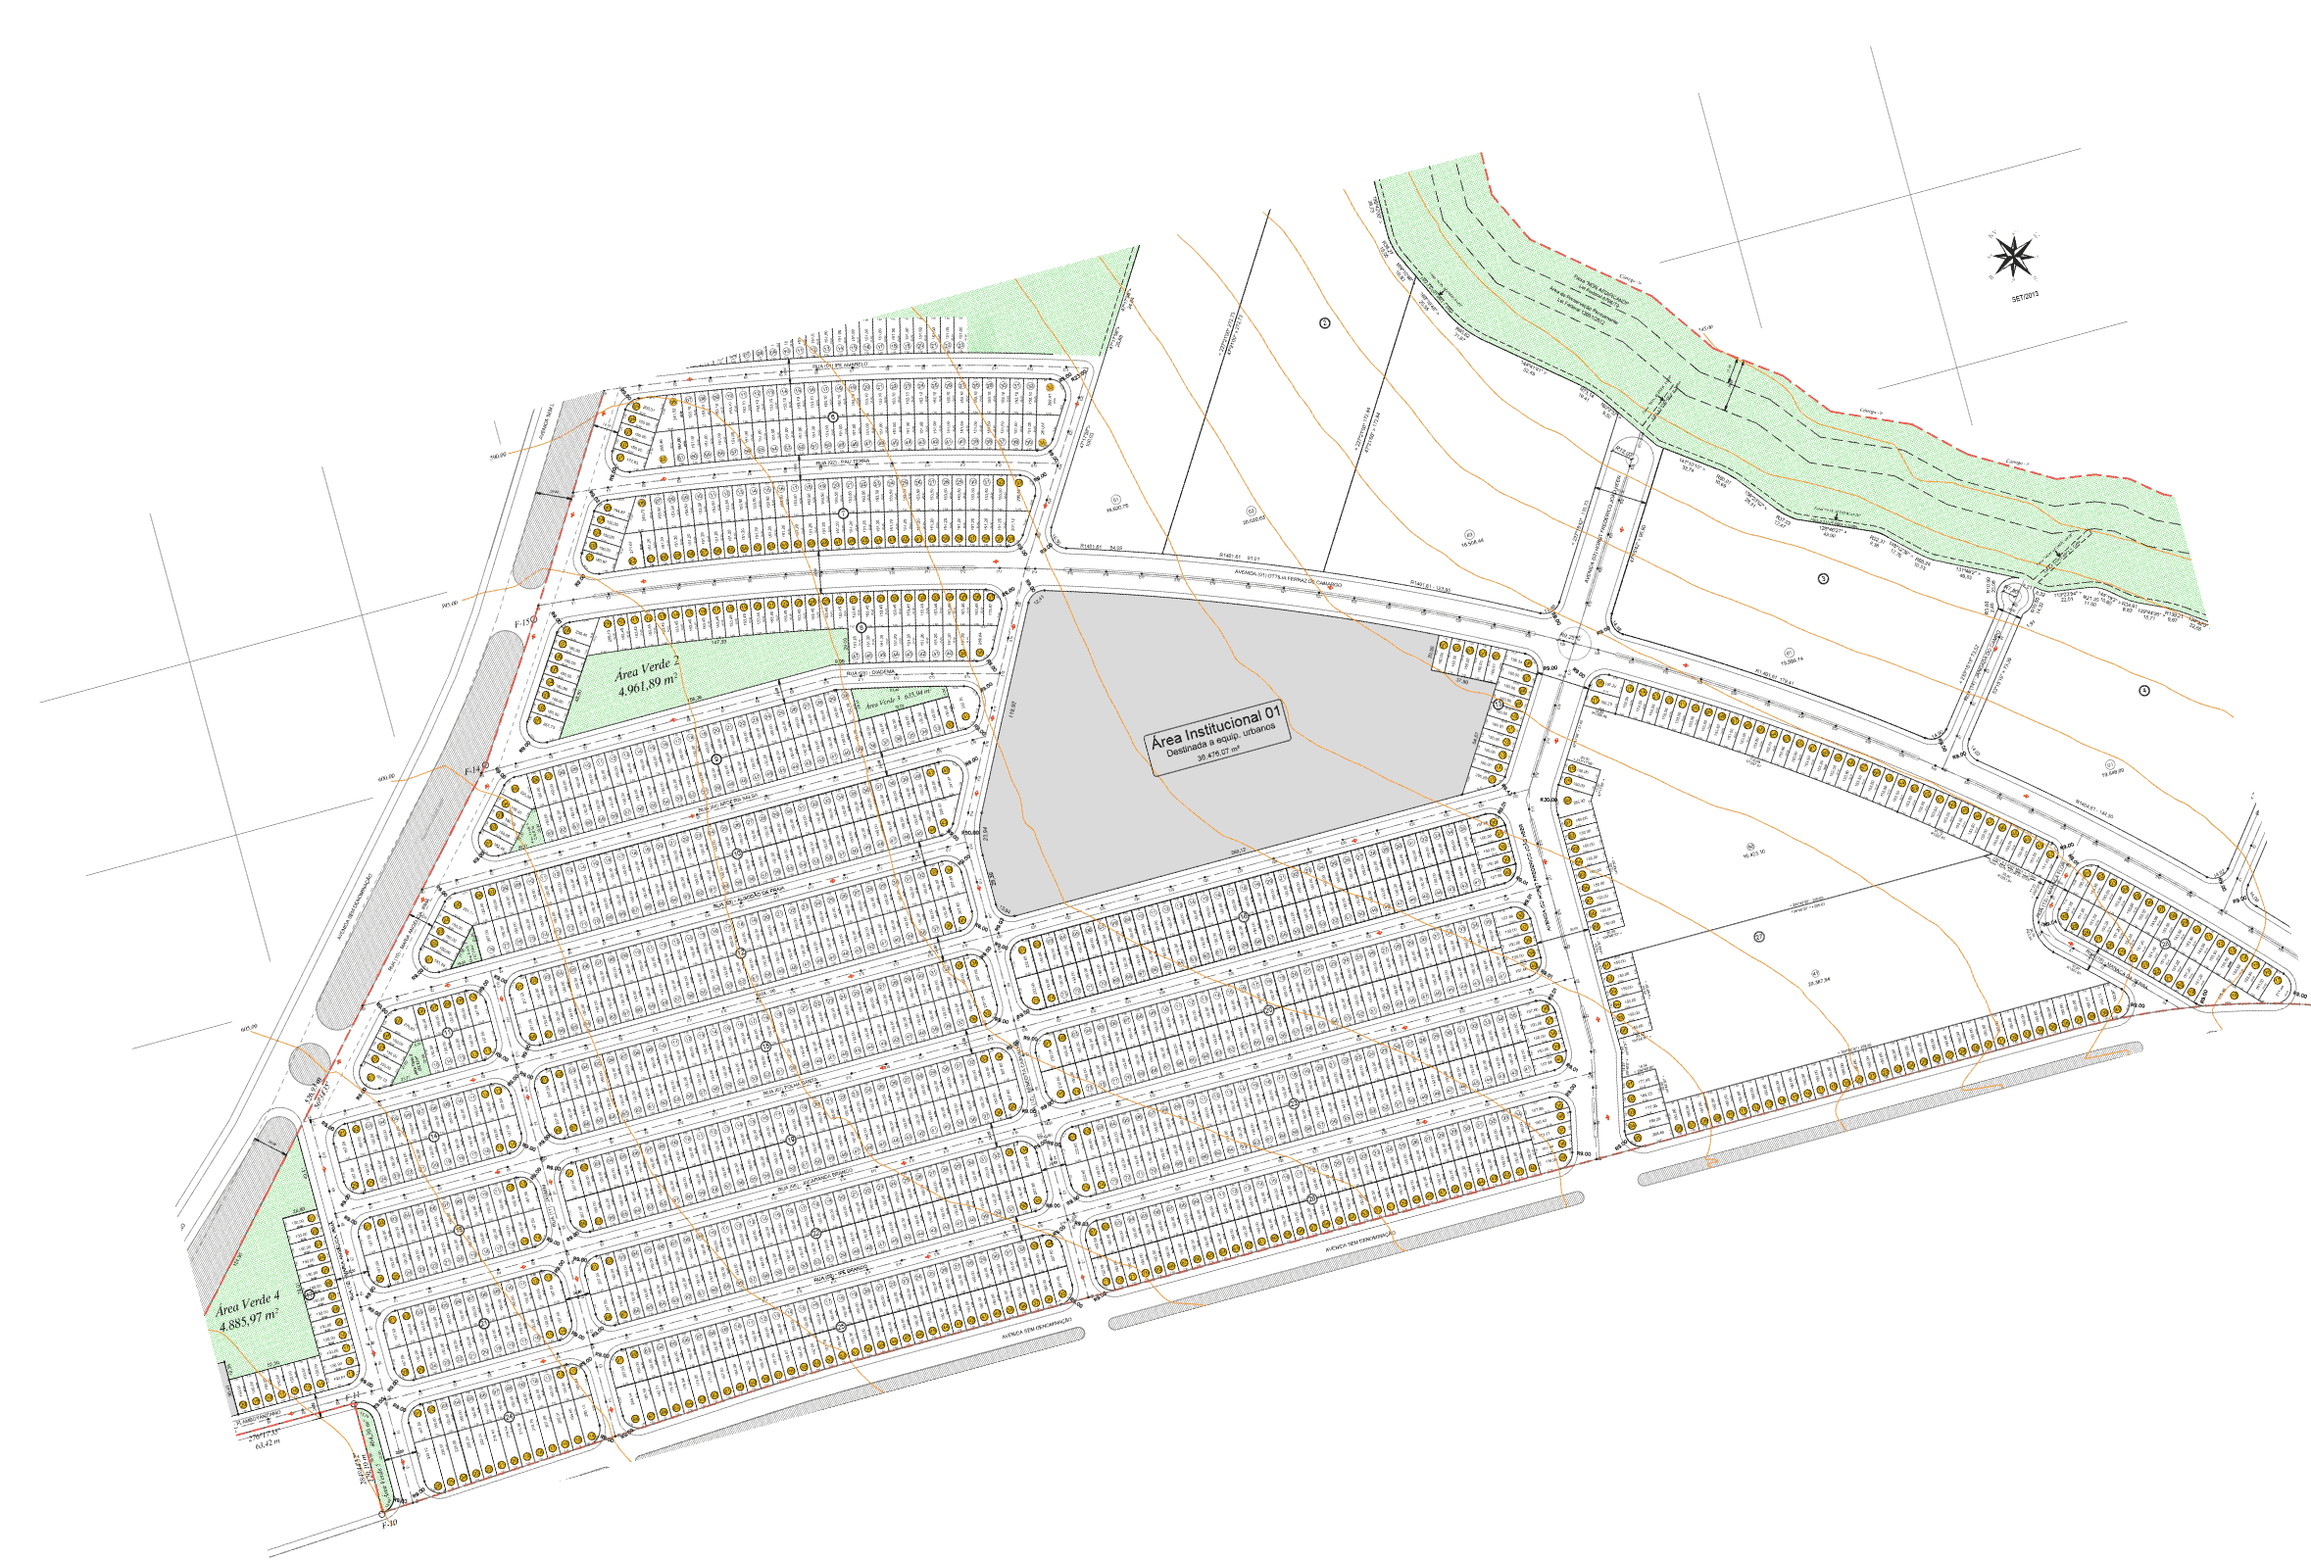
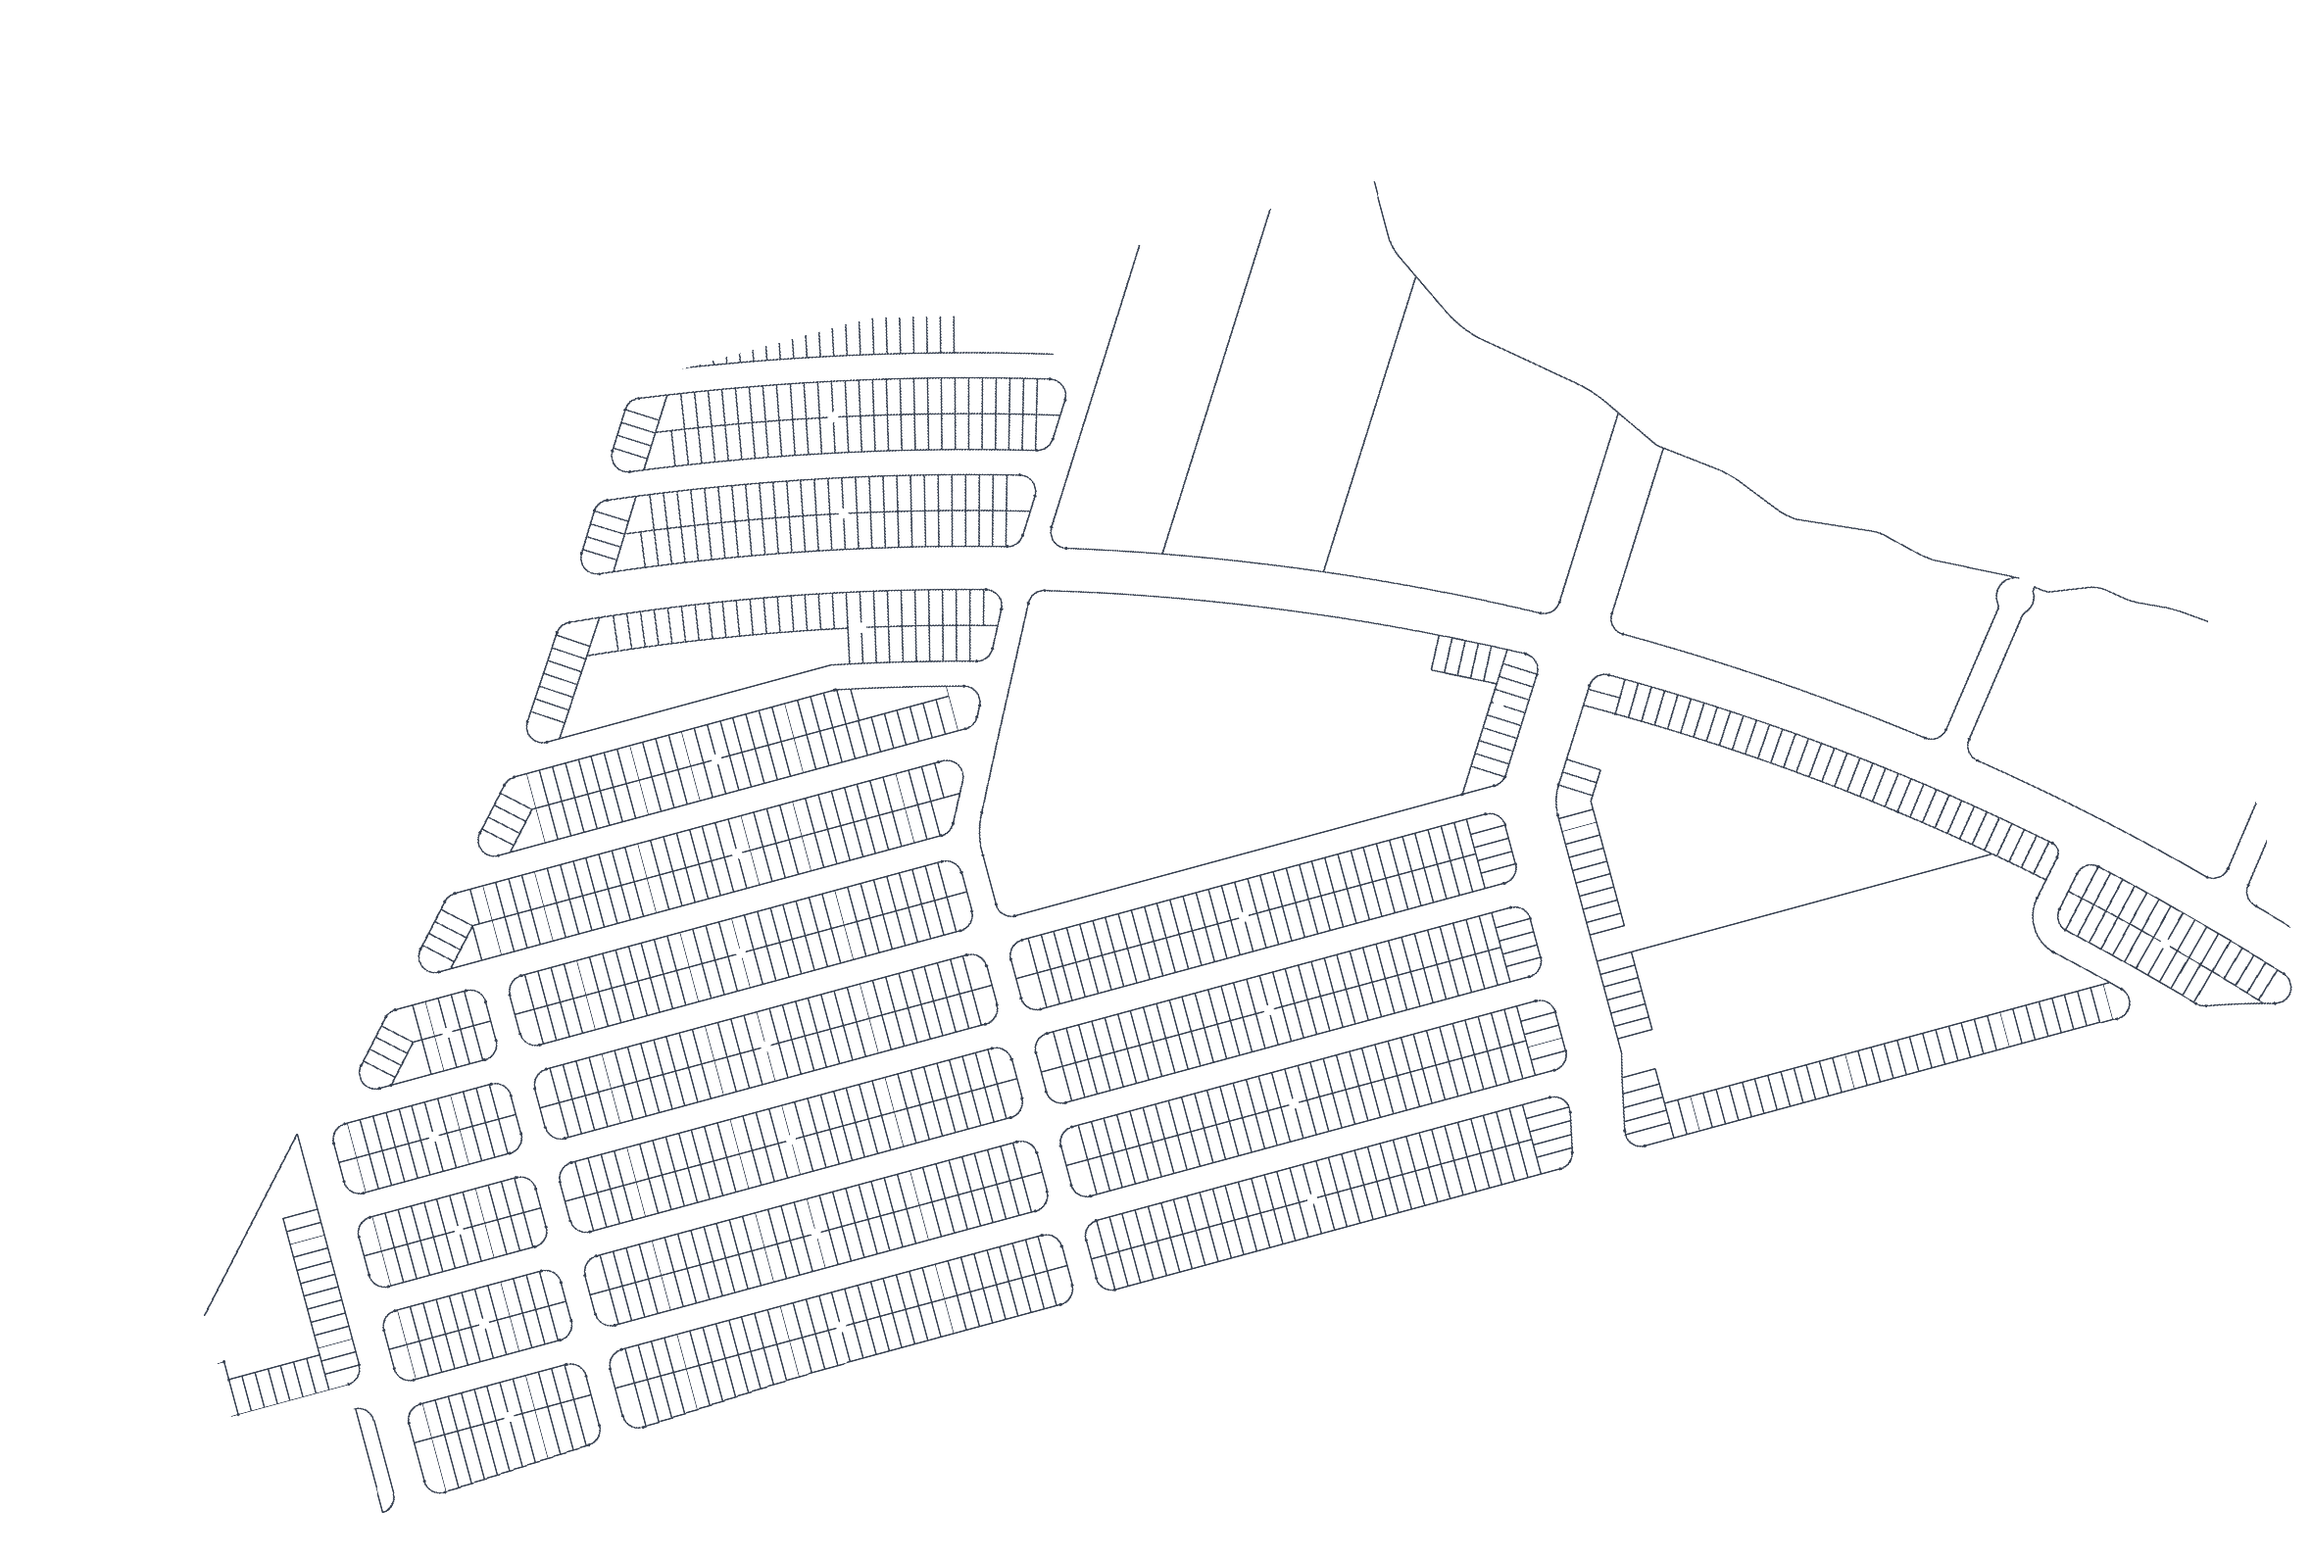
Mapa de lotes: desenho limpo no Campo Bonito (traço escuro) e lista de camadas por projeto nas ferramentas

Changed region(s): [[0.0619, 0.0923, 1.0, 0.9849], [0.8668, 0.1539, 0.8978, 0.1847]]

diff --git a/ferramentas/mapa-lotes/limpo-lote.py b/ferramentas/mapa-lotes/limpo-lote.py
@@ -1,0 +1,24 @@
+# -*- coding: utf-8 -*-
+# Roda o desenho limpo em serie: pdf-camadas -> render 5000 -> recolore -> overlay-norte (mesmo fit) -> composto de conferencia.
+import json, os, sys, glob, subprocess, shutil
+sys.stdout.reconfigure(encoding='utf-8')
+PY = sys.executable; S = os.path.dirname(os.path.abspath(__file__)); T = os.environ['TEMP'] + '/mapas/'
+REPO = 'C:/Users/Usuario/Desktop/landing-page'
+itens = json.load(open(sys.argv[1], encoding='utf-8'))
+for it in itens:
+    n = it['id']; print('=====', n, flush=True)
+    pdf = glob.glob(it['pdf'])[0]
+    r = subprocess.run([PY, S + '/pdf-camadas.py', pdf, T + n + '-limpo.pdf', it['camadas']], capture_output=True, text=True, encoding='utf-8'); print(r.stdout.strip()[-200:], r.stderr.strip()[-200:], flush=True)
+    for f in glob.glob(T + '5000/' + n + '-limpo-p1.png'): os.remove(f)
+    subprocess.run(['powershell', '-NoProfile', '-ExecutionPolicy', 'Bypass', '-File', REPO + '/ferramentas/pdf2png.ps1', '-Pdf', (T + n + '-limpo.pdf').replace('/', chr(92)), '-Largura', '5000', '-Saida', (T + '5000').replace('/', chr(92))], capture_output=True)
+    if not os.path.exists(T + '5000/' + n + '-limpo-p1.png'):   # o WinRT falha as vezes na 1a tentativa
+        subprocess.run(['powershell', '-NoProfile', '-ExecutionPolicy', 'Bypass', '-File', REPO + '/ferramentas/pdf2png.ps1', '-Pdf', (T + n + '-limpo.pdf').replace('/', chr(92)), '-Largura', '5000', '-Saida', (T + '5000').replace('/', chr(92))], capture_output=True)
+    if not os.path.exists(T + '5000/' + n + '-limpo-p1.png'): print('  render falhou', flush=True); continue
+    r = subprocess.run([PY, S + '/recolore-limpo.py', T + '5000/' + n + '-limpo-p1.png', T + '5000/' + n + '-limpa.png'], capture_output=True, text=True, encoding='utf-8'); print(' ', r.stdout.strip()[-120:], flush=True)
+    o = json.load(open(T + it['overlay_cfg'], encoding='utf-8'))
+    o['png_mascara'] = o['png']; o['png'] = '5000/' + n + '-limpa.png'; o['branco'] = 245; o['cores'] = 16
+    o['saida'] = T + n + '-limpo-overlay.png'; o['saida_bounds'] = n + '-limpo-bounds.json'
+    json.dump(o, open(T + n + '-limpo-overlay-cfg.json', 'w', encoding='utf-8'), indent=1)
+    r = subprocess.run([PY, S + '/overlay-norte.py', T + n + '-limpo-overlay-cfg.json'], capture_output=True, text=True, encoding='utf-8'); print(' ', '\n  '.join(r.stdout.strip().splitlines()[-2:]), r.stderr.strip()[-200:], flush=True)
+    r = subprocess.run([PY, S + '/confere-overlay.py', T + n + '-limpo-overlay.png', T + n + '-limpo-bounds.json', T + 'conf-' + n + '-limpo.jpg', '17'], capture_output=True, text=True, encoding='utf-8'); print(' ', r.stdout.strip()[-100:], r.stderr.strip()[-100:], flush=True)
+print('FIM')

diff --git a/ferramentas/mapa-lotes/recolore-limpo.py b/ferramentas/mapa-lotes/recolore-limpo.py
@@ -13,7 +13,7 @@ claro = ImageChops.multiply(mx.point(lambda v: 255 if 150 <= v < 245 else 0), sa
 mag = ImageChops.multiply(ImageChops.multiply(r.point(lambda v: 255 if v > 150 else 0), b.point(lambda v: 255 if v > 150 else 0)), g.point(lambda v: 255 if v < 140 else 0))
 azul = ImageChops.multiply(b.point(lambda v: 255 if v > 150 else 0), r.point(lambda v: 255 if v < 120 else 0))
 out = Image.new('RGB', im.size, (255, 255, 255))
-out.paste((214, 214, 214), (0, 0), claro)
+out.paste((55, 65, 81) if '--tudo-escuro' in sys.argv else (214, 214, 214), (0, 0), claro)   # --tudo-escuro: plantas com divisas em cinza claro
 out.paste((55, 65, 81), (0, 0), escuro)
 out.paste((37, 99, 235), (0, 0), azul)
 out.paste((46, 125, 91), (0, 0), mag)
